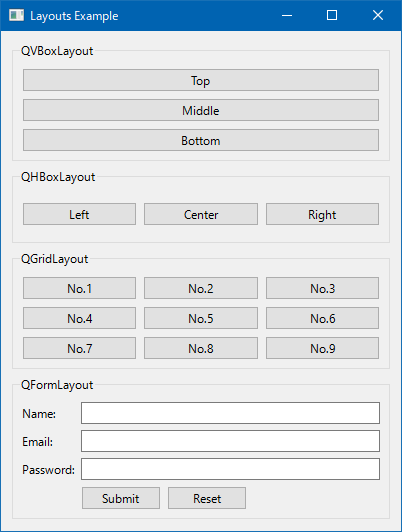
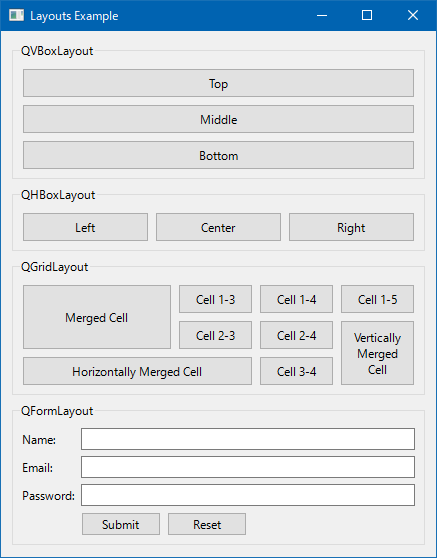
feat(src/layouts.py): グリッドレイアウトのサンプルにセル結合を追加

diff --git a/src/layouts.py b/src/layouts.py
@@ -10,6 +10,7 @@ from PySide6.QtWidgets import (
     QPushButton,
     QLineEdit,
     QGroupBox,
+    QSizePolicy,
 )
 import sys
 
@@ -34,9 +35,9 @@ class LayoutsExample(QWidget):
         """縦並びレイアウト"""
         group = QGroupBox("QVBoxLayout")
         layout = QVBoxLayout()
-        layout.addWidget(QPushButton("Top"))
-        layout.addWidget(QPushButton("Middle"))
-        layout.addWidget(QPushButton("Bottom"))
+        layout.addWidget(MyButton("Top"))
+        layout.addWidget(MyButton("Middle"))
+        layout.addWidget(MyButton("Bottom"))
         group.setLayout(layout)
         return group
 
@@ -44,9 +45,9 @@ class LayoutsExample(QWidget):
         """横並びレイアウト"""
         group = QGroupBox("QHBoxLayout")
         layout = QHBoxLayout()
-        layout.addWidget(QPushButton("Left"))
-        layout.addWidget(QPushButton("Center"))
-        layout.addWidget(QPushButton("Right"))
+        layout.addWidget(MyButton("Left"))
+        layout.addWidget(MyButton("Center"))
+        layout.addWidget(MyButton("Right"))
         group.setLayout(layout)
         return group
 
@@ -54,11 +55,20 @@ class LayoutsExample(QWidget):
         """グリッドレイアウト"""
         group = QGroupBox("QGridLayout")
         layout = QGridLayout()
-        for i in range(3):
-            for j in range(3):
-                num = i * 3 + j + 1
-                layout.addWidget(QPushButton(f"No.{num}"), i, j)
+        for row in range(3):
+            for col in range(5):
+                label = f"Cell {row + 1}-{col + 1}"
+                layout.addWidget(MyButton(label), row, col)
         group.setLayout(layout)
+
+        # セルのマージ
+        # INFO: 以下の処理では指定のセルに上書きする形でセル結合を行っている。
+        #       ただし、既存のアイテムは削除されずにフォーカス可能な状態として残る。
+        #       そのため、実際のコードでは、結合されるセルを空にする必要がある。
+        layout.addWidget(MyButton("Merged Cell"), 0, 0, 2, 2)
+        layout.addWidget(MyButton("Horizontally Merged Cell"), 2, 0, 1, 3)
+        layout.addWidget(MyButton("Vertically\nMerged\nCell"), 1, 4, 2, 1)
+
         return group
 
     def _create_form_group(self) -> QGroupBox:
@@ -79,6 +89,13 @@ class LayoutsExample(QWidget):
         layout.addRow("", btn_layout)
         group.setLayout(layout)
         return group
+
+
+class MyButton(QPushButton):
+    def __init__(self, text: str, parent=None):
+        super().__init__(text, parent)
+        self.setSizePolicy(QSizePolicy.Policy.Expanding, QSizePolicy.Policy.Expanding)
+        self.setMinimumSize(50, 30)
 
 
 if __name__ == "__main__":
